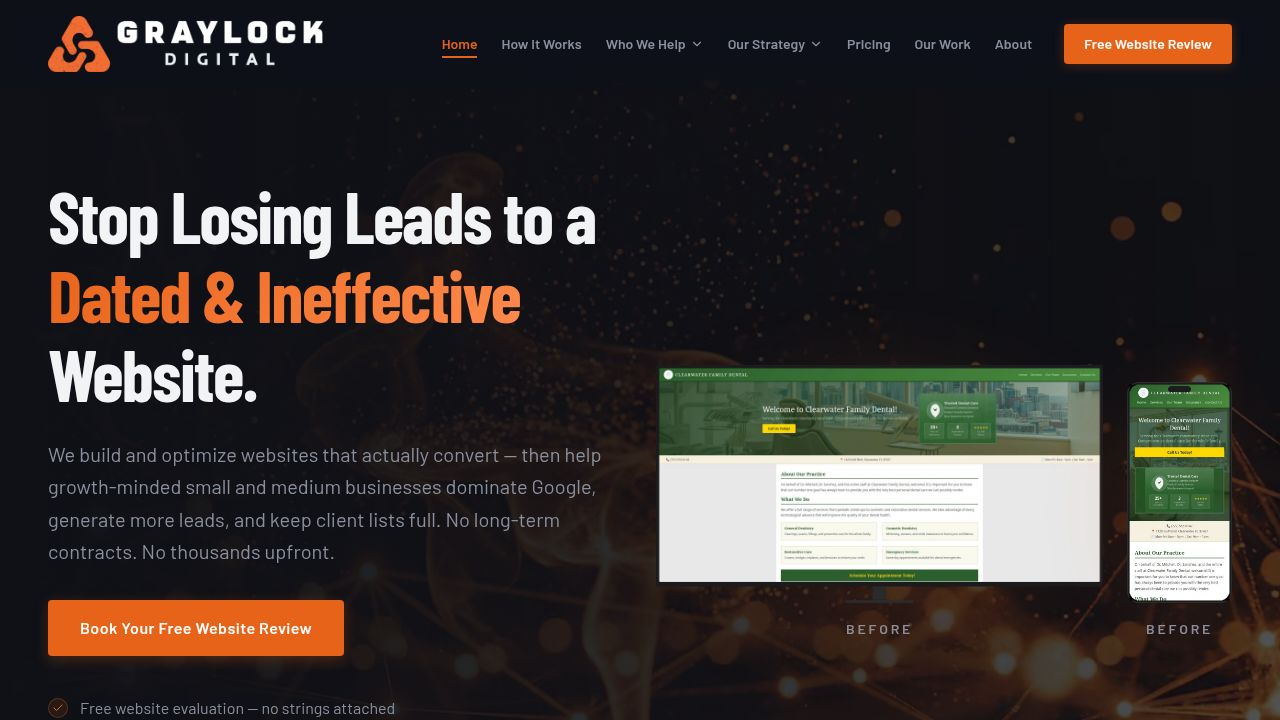
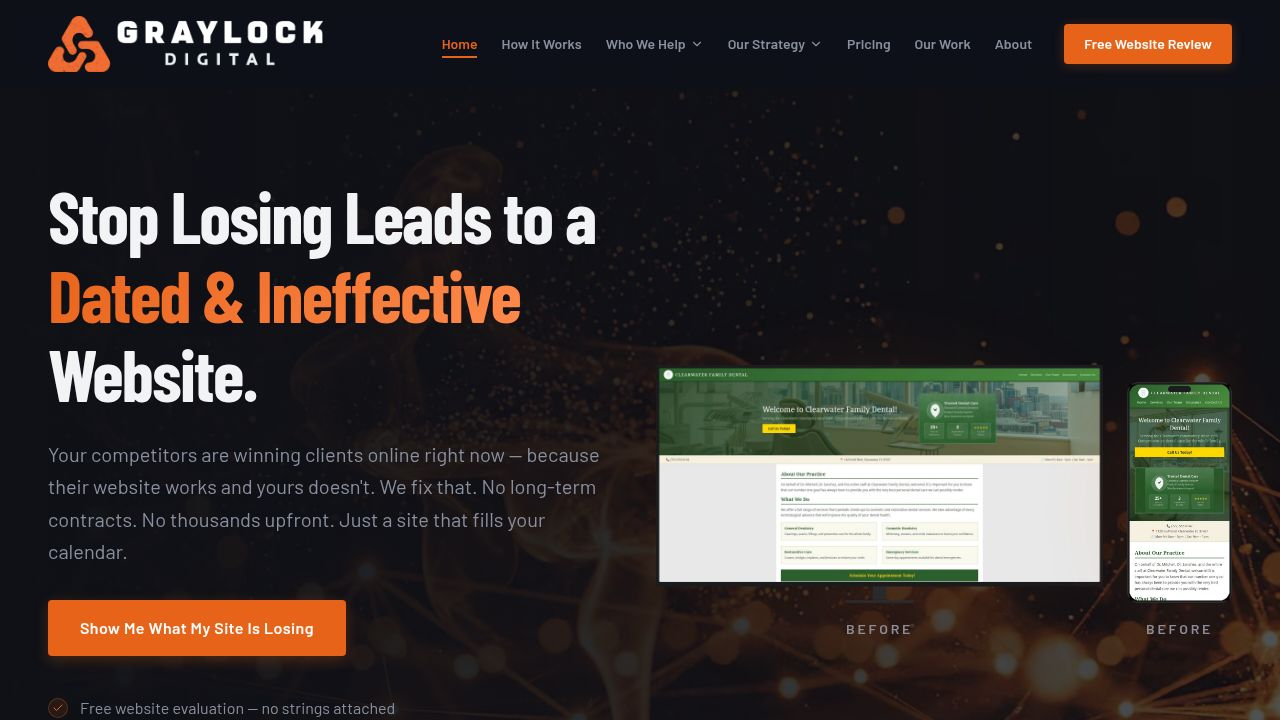
Homepage conversion improvements (dev brief) — Task #6
Implements all 5 prioritized conversion-focused changes from the Graylock
Digital dev brief:

1. TESTIMONIALS (Highest Priority):
   - Added 3 new named testimonials (Bobbie W./Montana Counseling Solutions,
     Kim W./Senior Health Solutions, Ben Lambright/West Coast Eye Clinic)
     with full names, business names, 5-star ratings
   - New testimonials featured prominently in top row; existing 3 generic
     testimonials kept in secondary row below
   - Section heading changed to "Real Results From Real Clients"
   - TestimonialSection moved to after Why Graylock comparison table

2. HERO SUBHEADLINE (High Priority):
   - Rewritten with StoryBrand positioning: "Your competitors are winning
     clients online right now — because their website works and yours
     doesn't. We fix that."

3. DIVERSIFIED CTAs (High Priority):
   - Hero: "Show Me What My Site Is Losing"
   - Offer Breakdown: "Get My Free Website Evaluation"
   - Pain Points: NEW CTA button "Find Out What's Costing Me Leads"
   - Why Graylock: NEW CTA button "See What This Looks Like for My Business"
   - How It Works: "See How It Works for My Business"
   - Pricing: Starter/Standard/Growth each have unique CTA text
   - Bottom banner: kept as "Book Your Free Website Review" per brief

4. CONTRARIAN STATEMENT (Medium Priority):
   - New ContrarianStatement.tsx component between Hero and Offer Breakdown
   - "Every other agency wants you to pay first. We think that's backwards."
[…]

diff --git a/artifacts/web/src/lib/constants.ts b/artifacts/web/src/lib/constants.ts
@@ -3,7 +3,7 @@ export const PRICING_TIERS = [
     name: "Starter",
     price: "$79",
     setup: "$299 one-time setup",
-    description: "Perfect for single-operator service businesses needing a professional web presence.",
+    description: "You do great work. Your website should say so. This is your professional foundation \u2014 clean, fast, and built to make the right first impression.",
     features: [
       "Custom 5-Page Website",
       "Mobile-First Design",
@@ -18,7 +18,7 @@ export const PRICING_TIERS = [
     price: "$119",
     setup: "$499 one-time setup",
     popular: true,
-    description: "The sweet spot for growing businesses that want visibility and control.",
+    description: "You're ready to grow \u2014 and you want Google to know it. This is for the business owner who's tired of being invisible online and wants leads coming in consistently.",
     features: [
       "Custom 7-Page Website",
       "5 SEO-Optimized Funnel Pages",
@@ -36,7 +36,7 @@ export const PRICING_TIERS = [
     name: "Growth",
     price: "$199",
     setup: "$599 one-time setup",
-    description: "For established businesses that need full control and maximum performance.",
+    description: "You're not just competing locally \u2014 you're dominating. This is for the established business that wants maximum visibility, full control, and a site that works as hard as you do.",
     features: [
       "Custom 14-Page Website",
       "10 SEO-Optimized Funnel Pages",
@@ -71,6 +71,24 @@ export const PRICING_TIERS = [
 
 export const TESTIMONIALS = [
   {
+    name: "Bobbie W.",
+    title: "Montana Counseling Solutions",
+    location: "Montana",
+    quote: "Before Graylock, I was getting leads \u2014 but they weren't the right leads. People who weren't a good fit, who couldn't afford my services, or who just weren't aligned with the kind of work I do. Since launching my new site, my monthly leads have more than doubled, but more importantly, the clients coming through are exactly who I want to work with. It's like the website filters for me. I'm spending less time on consultations that go nowhere and more time doing the work I actually love."
+  },
+  {
+    name: "Kim W.",
+    title: "Senior Health Solutions",
+    location: "United States",
+    quote: "I had no website at all \u2014 I was doing everything through community outreach, showing up in person, handing out cards. It was exhausting and inconsistent. Graylock built me a site from scratch and within just a couple months, clients started finding me on Google without me doing anything. The funnel pages they set up drove real local search traffic almost immediately. Now leads come to me. I still love being in the community, but now it's by choice \u2014 not because I have no other option."
+  },
+  {
+    name: "Ben Lambright",
+    title: "West Coast Eye Clinic",
+    location: "West Coast",
+    quote: "We had two outdated websites that were creating confusion for patients and extra work for our staff. Graylock consolidated everything into one clean, professional site and completely restructured how new patients contact us. I didn't want people calling the front desk \u2014 I wanted a controlled, professional intake process. Now every inquiry comes through an online form, and based on what the patient submits, it routes directly to the right person on my team. No more missed calls, no more phone tag. It's streamlined our entire front-end workflow."
+  },
+  {
     name: "Sarah M.",
     title: "Licensed Therapist",
     location: "Reno, NV",
@@ -87,18 +105,6 @@ export const TESTIMONIALS = [
     title: "General Contractor",
     location: "Phoenix, AZ",
     quote: "Agencies wanted $10k+ to build a site for my construction business. Graylock got me up and running for the setup fee, and the monthly maintenance gives me total peace of mind."
-  },
-  {
-    name: "Elena R.",
-    title: "Family Attorney",
-    location: "Austin, TX",
-    quote: "The done-for-you aspect is exactly what I needed. I bill by the hour, so I can't afford to waste time messing with WordPress. Graylock handles everything perfectly."
-  },
-  {
-    name: "James L.",
-    title: "HVAC Specialist",
-    location: "Denver, CO",
-    quote: "Our new site looks so much more professional than what we had before. People tell us it's what made them call us over the competition."
   }
 ];
 

diff --git a/artifacts/web/src/components/home/TestimonialSection.tsx b/artifacts/web/src/components/home/TestimonialSection.tsx
@@ -3,7 +3,8 @@ import { TESTIMONIALS } from "@/lib/constants";
 import { Star, Quote } from "lucide-react";
 
 export function TestimonialSection() {
-  const testimonials = TESTIMONIALS.slice(0, 3);
+  const featured = TESTIMONIALS.slice(0, 3);
+  const additional = TESTIMONIALS.slice(3);
 
   return (
     <section className="bg-charcoal py-24 px-6 md:px-12 relative overflow-hidden">
@@ -13,7 +14,7 @@ export function TestimonialSection() {
         
         <ScrollReveal className="text-center mb-16">
           <h2 className="text-3xl md:text-5xl font-display text-offwhite mb-4">
-            What Our Clients Say
+            Real Results From Real Clients
           </h2>
           <div className="flex justify-center gap-1 text-orange mt-3">
             {[...Array(5)].map((_, i) => <Star key={i} fill="currentColor" size={20} />)}
@@ -21,12 +22,15 @@ export function TestimonialSection() {
         </ScrollReveal>
 
         <div className="grid grid-cols-1 md:grid-cols-3 gap-6">
-          {testimonials.map((test, i) => (
+          {featured.map((test, i) => (
             <ScrollReveal key={i} delay={i * 0.15} className="card-glow gradient-border bg-navy/80 p-8 rounded-xl border border-gunmetal/50 flex flex-col justify-between relative">
               <div>
                 <Quote className="text-orange/20 mb-4" size={32} />
-                <p className="text-stone font-sans italic mb-8 relative z-10 leading-relaxed">
-                  {test.quote}
+                <div className="flex gap-1 text-orange mb-4">
+                  {[...Array(5)].map((_, j) => <Star key={j} fill="currentColor" size={14} />)}
+                </div>
+                <p className="text-stone font-sans italic mb-8 relative z-10 leading-relaxed text-sm">
+                  "{test.quote}"
                 </p>
               </div>
               <div className="flex items-center gap-4 pt-4 border-t border-gunmetal/50">
@@ -41,6 +45,32 @@ export function TestimonialSection() {
             </ScrollReveal>
           ))}
         </div>
+
+        {additional.length > 0 && (
+          <div className="grid grid-cols-1 md:grid-cols-3 gap-6 mt-6">
+            {additional.map((test, i) => (
+              <ScrollReveal key={i} delay={(i + 3) * 0.15} className="bg-navy/50 p-6 rounded-xl border border-gunmetal/30 flex flex-col justify-between">
+                <div>
+                  <div className="flex gap-1 text-orange mb-3">
+                    {[...Array(5)].map((_, j) => <Star key={j} fill="currentColor" size={12} />)}
+                  </div>
+                  <p className="text-stone/80 font-sans italic mb-6 leading-relaxed text-sm">
+                    "{test.quote}"
+                  </p>
+                </div>
+                <div className="flex items-center gap-3 pt-3 border-t border-gunmetal/30">
+                  <div className="w-10 h-10 rounded-full bg-gradient-to-br from-orange/80 to-orange/40 flex items-center justify-center text-white font-display text-lg">
+                    {test.name.charAt(0)}
+                  </div>
+                  <div>
+                    <h4 className="font-display text-offwhite text-base">{test.name}</h4>
+                    <p className="text-stone/70 text-xs">{test.title} • {test.location}</p>
+                  </div>
+                </div>
+              </ScrollReveal>
+            ))}
+          </div>
+        )}
       </div>
     </section>
   );

diff --git a/artifacts/web/src/components/home/PricingSection.tsx b/artifacts/web/src/components/home/PricingSection.tsx
@@ -13,6 +13,9 @@ export function PricingSection() {
       <div className="max-w-7xl mx-auto relative z-10">
         
         <ScrollReveal className="text-center mb-16">
+          <p className="text-orange font-sans font-semibold uppercase tracking-widest text-sm mb-4">
+            Most of our clients start on Standard. Here's what's right for where you are now.
+          </p>
           <h2 className="text-3xl md:text-5xl font-display text-offwhite mb-6">
             Simple, Transparent Pricing
           </h2>
@@ -37,7 +40,7 @@ export function PricingSection() {
               
               <div className="mb-6">
                 <h3 className="text-2xl font-display text-offwhite mb-2">{tier.name}</h3>
-                <p className="text-stone text-sm mb-5 min-h-[40px]">{tier.description}</p>
+                <p className="text-stone text-sm mb-5 min-h-[60px]">{tier.description}</p>
                 {tier.isCustom ? (
                   <div className="flex items-baseline gap-1">
                     <span className="text-3xl font-display text-gradient">Let's Talk</span>
@@ -78,7 +81,7 @@ export function PricingSection() {
                 variant={tier.popular ? 'primary' : 'outline'}
                 className="w-full"
               >
-                {tier.isCustom ? 'Contact Us' : 'Book Your Free Website Review'}
+                {tier.isCustom ? 'Contact Us' : tier.name === 'Starter' ? 'Start with a Free Review' : tier.name === 'Standard' ? 'Claim My Free Website Review' : "Let's Talk \u2014 Book a Free Review"}
               </CTAButton>
             </ScrollReveal>
           ))}

diff --git a/artifacts/web/src/components/home/ContrarianStatement.tsx b/artifacts/web/src/components/home/ContrarianStatement.tsx
@@ -1,0 +1,22 @@
+import { ScrollReveal } from "@/components/ui/ScrollReveal";
+
+export function ContrarianStatement() {
+  return (
+    <section className="bg-charcoal py-20 md:py-28 px-6 md:px-12 relative overflow-hidden">
+      <div className="absolute inset-0 bg-gradient-to-b from-navy/50 to-charcoal pointer-events-none" />
+      <div className="absolute top-1/2 left-1/2 -translate-x-1/2 -translate-y-1/2 w-[600px] h-[300px] bg-orange/5 rounded-full blur-[120px] pointer-events-none" />
+
+      <div className="max-w-4xl mx-auto text-center relative z-10">
+        <ScrollReveal>
+          <p className="text-3xl md:text-[40px] lg:text-5xl font-display text-offwhite leading-tight mb-6">
+            Every other agency wants you to pay first.{" "}
+            <span className="text-orange">We think that's backwards.</span>
+          </p>
+          <p className="text-stone text-lg md:text-xl font-sans leading-relaxed max-w-2xl mx-auto">
+            We do the work first. You see the results first. Then you decide.
+          </p>
+        </ScrollReveal>
+      </div>
+    </section>
+  );
+}

diff --git a/artifacts/web/src/components/home/HeroSection.tsx b/artifacts/web/src/components/home/HeroSection.tsx
@@ -185,12 +185,12 @@ export function HeroSection() {
               Website.
             </h1>
             <p className="text-stone text-lg md:text-xl font-sans mb-8 max-w-xl leading-relaxed">
-              We build and optimize websites that actually convert — then help growth-minded small and medium businesses dominate Google, generate more leads, and keep client lists full. No long-term contracts. No thousands upfront.
+              Your competitors are winning clients online right now — because their website works and yours doesn't. We fix that. No long-term contracts. No thousands upfront. Just a site that fills your calendar.
             </p>
 
             <div className="flex flex-col sm:flex-row items-start sm:items-center gap-6 mb-10">
               <CTAButton href="/get-started">
-                Book Your Free Website Review
+                Show Me What My Site Is Losing
               </CTAButton>
             </div>
 

diff --git a/artifacts/web/src/pages/Home.tsx b/artifacts/web/src/pages/Home.tsx
@@ -1,5 +1,6 @@
 import { SEO } from "@/components/SEO";
 import { HeroSection } from "@/components/home/HeroSection";
+import { ContrarianStatement } from "@/components/home/ContrarianStatement";
 import { OfferBreakdownSection } from "@/components/home/OfferBreakdownSection";
 import { HowItWorksSection } from "@/components/home/HowItWorksSection";
 import { ValueDifferentiationSection } from "@/components/home/ValueDifferentiationSection";
@@ -18,13 +19,14 @@ export default function Home() {
     <>
       <SEO />
       <HeroSection />
+      <ContrarianStatement />
       <OfferBreakdownSection />
       <ProblemSection />
       <HowItWorksSection />
       <ValueDifferentiationSection />
+      <TestimonialSection />
       <SolutionSection />
       <DashboardSection />
-      <TestimonialSection />
       <MissionBlurb />
       <NicheExamplesSection />
       <PricingSection />

diff --git a/artifacts/web/src/components/home/ProblemSection.tsx b/artifacts/web/src/components/home/ProblemSection.tsx
@@ -1,4 +1,5 @@
 import { ScrollReveal } from "@/components/ui/ScrollReveal";
+import { CTAButton } from "@/components/ui/CTAButton";
 
 export function ProblemSection() {
   const problems = [
@@ -56,9 +57,12 @@ export function ProblemSection() {
         </div>
 
         <ScrollReveal delay={0.4} className="text-center">
-          <p className="text-xl font-display text-orange tracking-wide uppercase">
+          <p className="text-xl font-display text-orange tracking-wide uppercase mb-8">
             That's exactly why we review your site for free — so you finally know what to fix.
           </p>
+          <CTAButton href="/get-started">
+            Find Out What's Costing Me Leads
+          </CTAButton>
         </ScrollReveal>
 
       </div>

diff --git a/artifacts/web/src/components/home/ValueDifferentiationSection.tsx b/artifacts/web/src/components/home/ValueDifferentiationSection.tsx
@@ -1,4 +1,5 @@
 import { ScrollReveal } from "@/components/ui/ScrollReveal";
+import { CTAButton } from "@/components/ui/CTAButton";
 import { X, Check } from "lucide-react";
 
 export function ValueDifferentiationSection() {
@@ -50,6 +51,12 @@ export function ValueDifferentiationSection() {
               </div>
             ))}
           </div>
+        </ScrollReveal>
+
+        <ScrollReveal delay={0.3} className="text-center mt-12">
+          <CTAButton href="/get-started">
+            See What This Looks Like for My Business
+          </CTAButton>
         </ScrollReveal>
 
       </div>

diff --git a/artifacts/web/src/components/home/OfferBreakdownSection.tsx b/artifacts/web/src/components/home/OfferBreakdownSection.tsx
@@ -61,7 +61,7 @@ export function OfferBreakdownSection() {
 
         <ScrollReveal delay={0.5} className="text-center mt-12">
           <CTAButton href="/get-started">
-            Book Your Free Website Review
+            Get My Free Website Evaluation
           </CTAButton>
           <p className="text-stone/60 text-sm font-sans mt-4">No credit card. No obligation. Just answers.</p>
         </ScrollReveal>

diff --git a/artifacts/web/src/components/home/HowItWorksSection.tsx b/artifacts/web/src/components/home/HowItWorksSection.tsx
@@ -53,7 +53,7 @@ export function HowItWorksSection() {
         </div>
 
         <ScrollReveal delay={0.6} className="text-center">
-          <CTAButton href="/get-started">Book Your Free Website Review</CTAButton>
+          <CTAButton href="/get-started">See How It Works for My Business</CTAButton>
         </ScrollReveal>
 
       </div>
